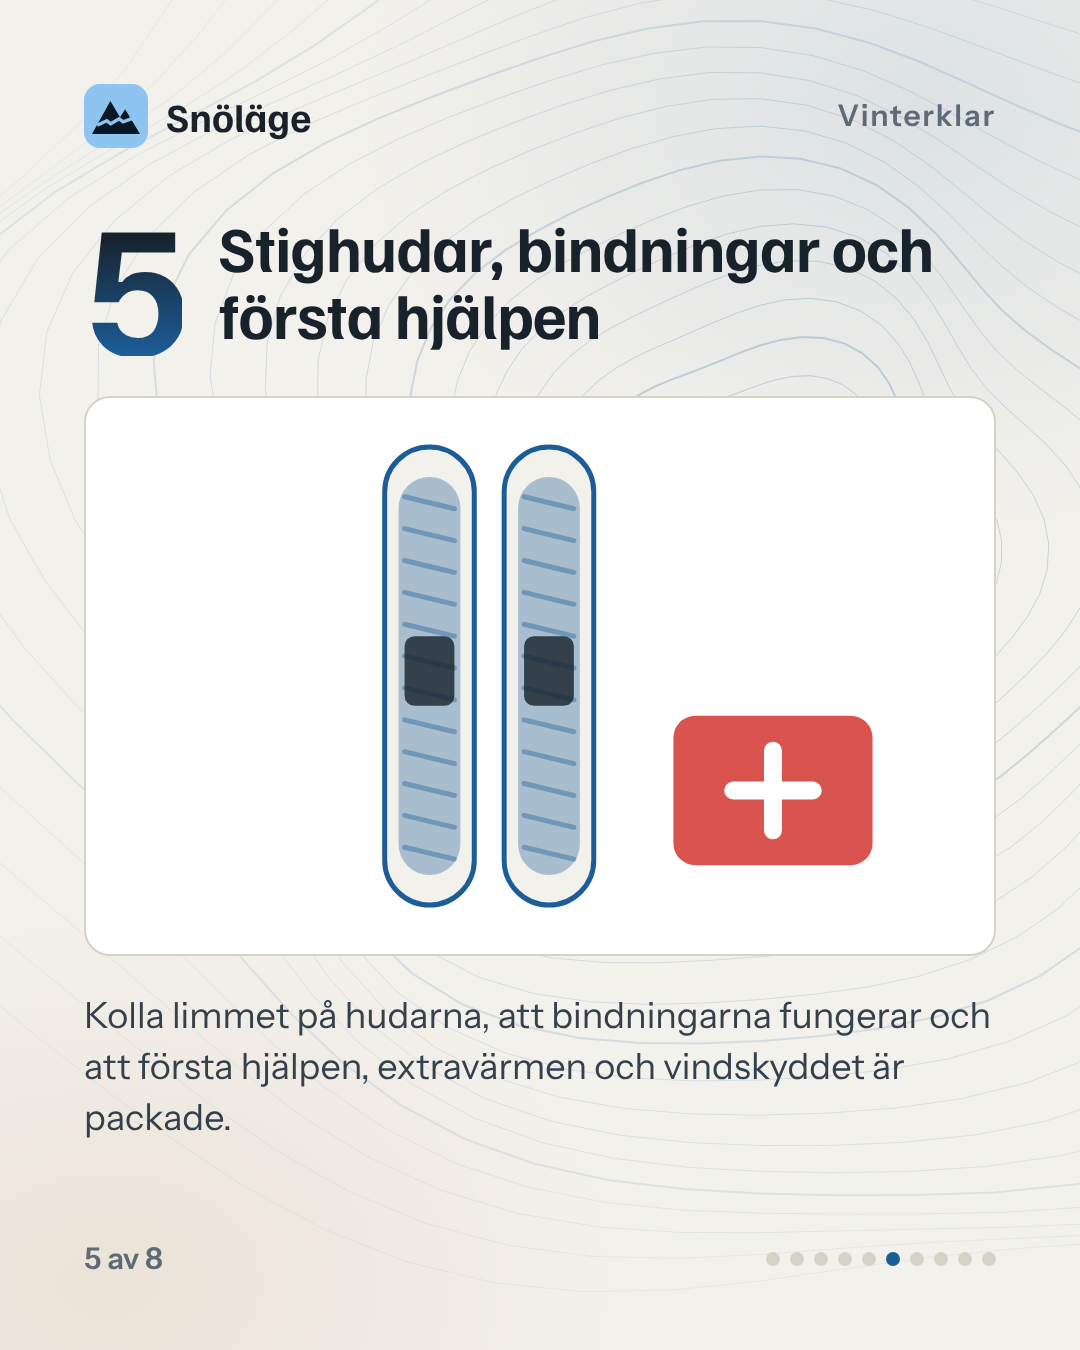
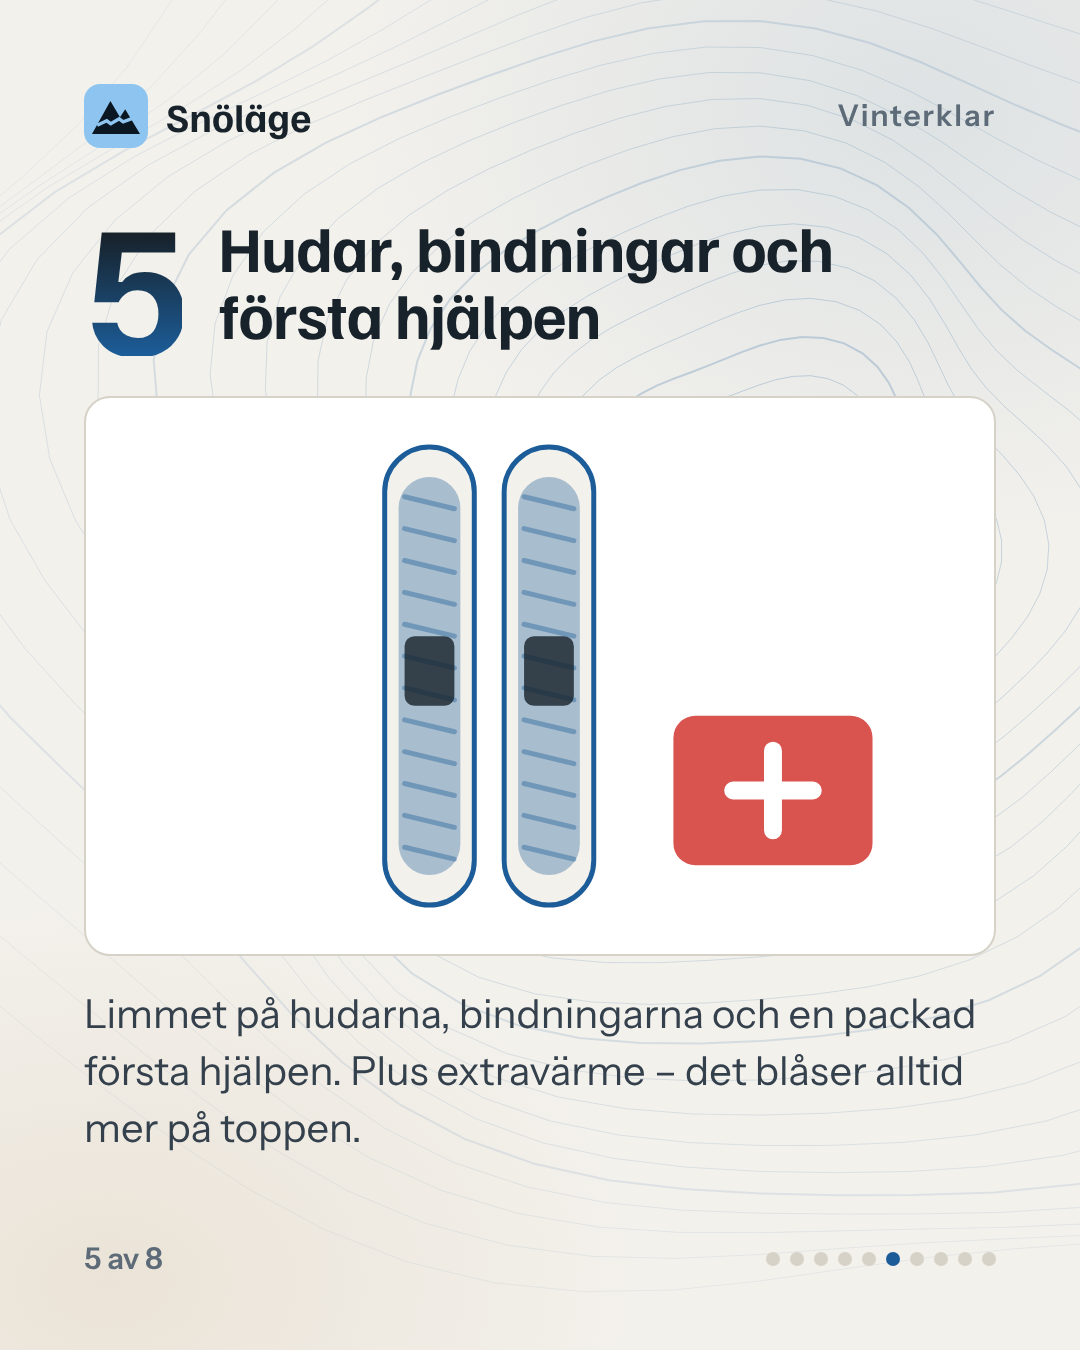
First Meta analysis; Vinterklar carousel rebuilt from it (humour hook, first person, bigger text) [skip ci]
Claude-Session: https://claude.ai/code/session_016gagaetJdXP8GZ53aH1qZN

Changed region(s): [[0.0611, 0.7467, 0.9167, 0.8711], [0.2139, 0.1556, 0.8861, 0.2178]]

diff --git a/Svenska laviner/marknad/statistik/ANALYS-2026-11-12.md b/Svenska laviner/marknad/statistik/ANALYS-2026-11-12.md
@@ -1,0 +1,71 @@
+# Vad som fungerar – analys 12 november 2026
+
+Underlag: Meta Business Suite-export, 13 okt–11 nov 2026 (6 reels på
+Instagram och Facebook). Används när nya inlägg tas fram. Uppdatera med
+ny export ungefär en gång i månaden.
+
+## Siffrorna
+
+**Instagram**
+
+| Inlägg | Visningar | Räckvidd | Gilla | Delningar | Nya följare | Sparade | Följare per 1 000 nådda |
+| --- | ---: | ---: | ---: | ---: | ---: | ---: | ---: |
+| A2 "Brunt på kartan är inte choklad" | 3 015 | **2 249** | 34 | 6 | 21 | 6 | 9 |
+| A1 "Tre appar…" (Fabian i bild, 48 s) | 2 200 | 1 442 | **58** | **20** | **41** | 5 | **28** |
+| N1 Norge (ingen i bild) | 515 | 374 | 10 | 0 | 2 | 0 | 5 |
+| N2 Hitta åk (ingen i bild) | 456 | 313 | 6 | 0 | 0 | 1 | 0 |
+| A3 Offline (ingen i bild) | 384 | 296 | 9 | 0 | 0 | 0 | 0 |
+| F1 3 appar → 1 (bara text, ingen röst) | 234 | 172 | 7 | 0 | 0 | 0 | 0 |
+
+**Facebook**
+
+| Inlägg | Visningar | Tittare | Snittid | Varifrån |
+| --- | ---: | ---: | ---: | --- |
+| N1 Norge | **6 235** | **5 815** | 6,0 s | nästan allt via rekommendationer (icke-följare) |
+| A2 Brunt ≠ choklad | 2 669 | 2 291 | **9,5 s** | 87 klick |
+| N2 Hitta åk | 719 | 634 | 4,3 s | 11 klick |
+| A1 Tre appar | 354 | 301 | 6,1 s | |
+| A3 Offline | 233 | 212 | 2,0 s | |
+| F1 3 appar → 1 | 47 | 30 | 5,5 s | |
+
+Facebook-publiken är **män 45–65+ i Sverige** (och lite Norge): för N1
+var 65+ och 55–64 de största grupperna. På Instagram är publiken yngre.
+
+## Lärdomar
+
+1. **Du i bild och din röst ger följare.** A1 gav 41 nya följare
+   (28 per 1 000 nådda) och 20 delningar – tre gånger bättre än något
+   annat. Klipp utan person gav 0–2 följare.
+2. **Humor i kroken ger räckvidd.** "Brunt på kartan är inte choklad" nådde
+   flest av alla på Instagram och hade längst tittartid på Facebook.
+   Saklig krok utan skämt ("Ingen täckning…", "Tre appar…→ en") nådde få.
+3. **Bara text och musik fungerar dåligt.** F1 var sämst på båda.
+4. **Facebook belönar inlägg som laddas upp där** (via Business Suite):
+   N1 och N2 visades mest för icke-följare via rekommendationer. Norge-
+   frågan träffade Facebooks äldre, norrländska publik mitt i prick.
+5. **Folk tittar 4–10 sekunder.** Hälften har slutat efter 6–8 s. Det
+   viktigaste måste komma de första 3 sekunderna, och klippen bör vara
+   15–25 s.
+6. **Sparningar och delningar är låga** (0–6) utom för A1. Karuseller med
+   checklistor är testet för det – mät sparningar och delningar.
+7. **Frågor i texten ger få kommentarer** – bara A1 (4). Personliga frågor
+   fungerar bättre än allmänna.
+8. **Hashtaggar och plats gjorde ingen synlig skillnad.** De bästa
+   inläggen hade `#topptur #offpist #lavin #snöläge #fjällen`; ortstaggar
+   (#riksgränsen, #hemavan) lyfte inte N1/N2.
+9. **Tid på dagen:** för lite underlag än.
+
+## Regler för kommande inlägg
+
+- **Krok med humor eller igenkänning** de första 2 sekunderna (som
+  "Brunt på kartan är inte choklad", "Täckning på fjället? Haha… nej").
+- **Fabian i bild eller på röst** i varje reel – minst i början eller slutet.
+  Skriv i jag-form ("min checklista", "jag byggde").
+- **Kort:** 15–25 s, budskapet före 6 s.
+- **Publicera via Business Suite** till både Instagram och Facebook-sidan
+  (Facebook-reels med musik + röst funkar där; Instagram-reels med röst +
+  musik läggs upp i Instagram-appen).
+- **Facebook:** skriv så att 45–65-åringar känner igen sig (fjällresor,
+  Riksgränsen/Abisko/Hemavan, turkompisar), större text i bild.
+- **Uppmana till spara/skicka**, inte bara kommentera.
+- Hashtaggar: `#topptur #offpist #lavin #fjällen #snöläge`.

diff --git a/Svenska laviner/MARKNADSPLAN-INSTAGRAM-FACEBOOK.md b/Svenska laviner/MARKNADSPLAN-INSTAGRAM-FACEBOOK.md
@@ -481,6 +481,11 @@ utan pengar.
 
 ## 9. Veckokoll (söndagar, 15 min)
 
+**Senaste analys:** `marknad/statistik/ANALYS-2026-11-12.md` – du i bild och
+humor i kroken ger flest följare och mest räckvidd; klipp utan person eller
+bara text når få. Facebook-publiken är män 45–65+. Följ reglerna där när nya
+inlägg görs.
+
 Skriv in siffrorna i en anteckning i telefonen:
 
 | Var | Vad du tittar på |
